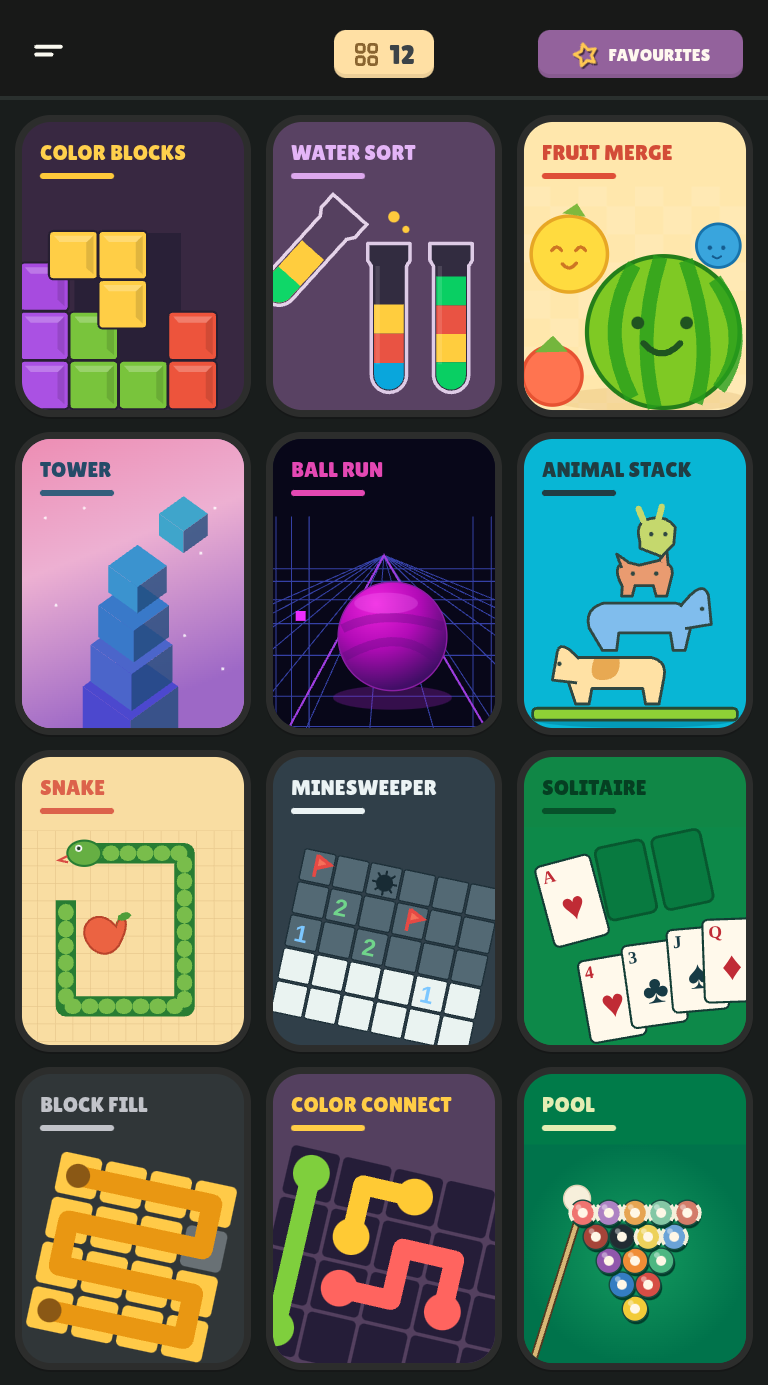
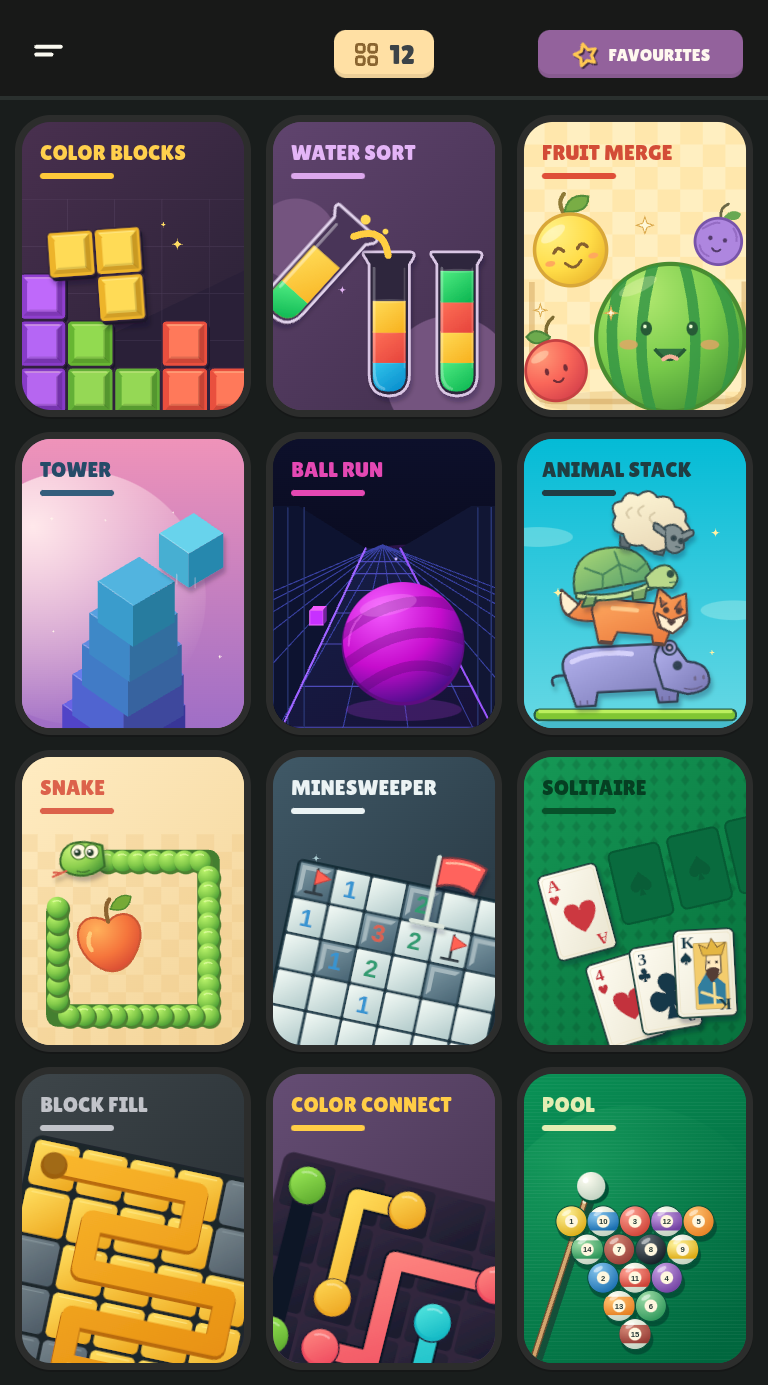
feat: redraw all covers with SVG skill and harden versioned offline caching

diff --git a/src/main.ts b/src/main.ts
@@ -19,7 +19,7 @@ async function route(){const token=++generation;leave();const id=location.hash.m
 try{const loaded=await loadGame(id);if(token!==generation)return;module=loaded;const stage=document.querySelector<HTMLElement>('#game-stage')!;stage.replaceChildren();const best=store.highScore(id);const mounted=await loaded.mount(stage,{id,settings:preferences,highScore:best,setScore(score){if(token!==generation)return;document.querySelector('#game-score')!.innerHTML=`Score <strong>${Math.floor(score)}</strong>`;const next=store.recordScore(id,score);document.querySelector('#game-best')!.innerHTML=`Best <strong>${Math.floor(next)}</strong>`;},setLevel(level){if(token===generation)document.querySelector('#game-level')!.textContent=String(level);},setStatus(text){if(token===generation)document.querySelector('#game-status')!.textContent=text;},announce,save(data){store.saveGame(id,data);storageStatus();},sound(kind){playSound(preferences.sound,kind);}});if(token!==generation){mounted.dispose();return;}instance=mounted;const saved=store.savedGame(id);if(saved!==undefined){try{instance.restore(saved);}catch{announce('The previous save was not compatible. Starting a fresh game.');}}document.querySelector('#pause-game')!.addEventListener('click',()=>setPaused(!paused));document.querySelector('#resume-game')!.addEventListener('click',()=>setPaused(false));document.querySelector('#restart-game')!.addEventListener('click',()=>{instance?.restart();setPaused(false);save();});document.querySelector('#rules-game')!.addEventListener('click',()=>{pausedForDialog=!paused;setPaused(true);document.querySelector('#rules-text')!.textContent=loaded.rules;rulesDialog.showModal();});document.querySelector('#favourite-game')!.addEventListener('click',event=>{const selected=store.toggleFavourite(id);(event.currentTarget as HTMLButtonElement).setAttribute('aria-pressed',String(selected));announce(selected?'Added to favourites':'Removed from favourites');storageStatus();});autosave=window.setInterval(save,5000);if(document.hidden)setPaused(true);stage.focus();}
 catch(error){if(token!==generation)return;document.querySelector('#game-stage')!.innerHTML='<p class="game-error">'+(error instanceof Error?error.message:'Could not load this game.')+'</p><a class="game-button" href="#/">Back to library</a>';}}
 document.querySelector('.hamburger')!.addEventListener('click',()=>{pausedForDialog=!!instance&&!paused;if(instance)setPaused(true);menu.showModal();});menu.addEventListener('close',()=>{if(pausedForDialog)setPaused(false);if(!activeId)library();});rulesDialog.addEventListener('close',()=>{if(pausedForDialog)setPaused(false);});document.querySelector('.rules-done')!.addEventListener('click',()=>rulesDialog.close());
-document.querySelector('.favourites-pill')!.addEventListener('click',event=>{onlyFavourites=!onlyFavourites;(event.currentTarget as HTMLElement).setAttribute('aria-pressed',String(onlyFavourites));if(activeId)location.hash='#/';else library();});document.querySelector<HTMLInputElement>('#search')!.addEventListener('input',event=>{search=(event.target as HTMLInputElement).value;if(!activeId)library();});
+document.querySelector('.favourites-pill')!.addEventListener('click',event=>{onlyFavourites=!onlyFavourites;(event.currentTarget as HTMLElement).setAttribute('aria-pressed',String(onlyFavourites));if(activeId)location.hash='#/';else library();});document.querySelector<HTMLInputElement>('#search')!.addEventListener('input',event=>{search=(event.target as HTMLInputElement).value;if(activeId)location.hash='#/';else library();});
 for(const [selector,key] of [['#sound','sound'],['#motion','reducedMotion'],['#colour','colorBlind']] as const){const input=document.querySelector<HTMLInputElement>(selector)!;input.checked=preferences[key];input.addEventListener('change',()=>{preferences[key]=input.checked;store.write('settings',preferences);document.documentElement.classList.toggle('reduce-motion',preferences.reducedMotion);storageStatus();});}
 document.documentElement.classList.toggle('reduce-motion',preferences.reducedMotion);
 document.querySelector<HTMLButtonElement>('.offline-button')!.addEventListener('click',async event=>{const button=event.currentTarget as HTMLButtonElement,progress=document.querySelector<HTMLProgressElement>('#download-progress')!,status=document.querySelector('#offline-status')!;button.disabled=true;progress.hidden=false;status.textContent='Downloading the arcade…';try{const total=await cacheAll((done,count)=>{progress.max=count;progress.value=done;status.textContent=`Downloaded ${done} of ${count} files`;});button.textContent='Offline pack downloaded';status.textContent=`All ${total} files downloaded on this browser. Device policy or storage eviction can still remove cached files.`;}catch(error){status.textContent=error instanceof Error?error.message:'Download failed. Try again when online.';}finally{button.disabled=false;}});

diff --git a/public/sw.js b/public/sw.js
@@ -1,4 +1,12 @@
-const SHELL='pocket-arcade-shell-v1';
-self.addEventListener('install',event=>{event.waitUntil(caches.open(SHELL).then(cache=>cache.addAll(['./','./index.html','./icon.svg','./manifest.webmanifest'])));self.skipWaiting();});
-self.addEventListener('activate',event=>event.waitUntil((async()=>{let current;try{const response=await fetch(new URL('offline-manifest.json',self.registration.scope));current=(await response.json()).version;}catch{}if(current){for(const key of await caches.keys())if(key.startsWith('pocket-arcade-')&&key!==SHELL&&key!=='pocket-arcade-'+current)await caches.delete(key);}await self.clients.claim();})()));
-self.addEventListener('fetch',event=>{const url=new URL(event.request.url);if(event.request.method!=='GET'||url.origin!==self.location.origin)return;event.respondWith((async()=>{const hit=await caches.match(event.request);if(hit)return hit;try{const response=await fetch(event.request);if(response.ok){const cache=await caches.open(SHELL);await cache.put(event.request,response.clone());}return response;}catch{if(event.request.mode==='navigate'){const fallback=await caches.match(new URL('index.html',self.registration.scope));if(fallback)return fallback;}return new Response('This file has not been downloaded on this device.',{status:503});}})());});
+const VERSION='__ARCADE_VERSION__';
+const PRECACHE=__ARCADE_PRECACHE__;
+const PREFIX='pocket-arcade:'+new URL(self.registration.scope).pathname+':';
+const SHELL=PREFIX+VERSION+':shell';
+const PACK=PREFIX+VERSION+':pack';
+self.addEventListener('install',event=>{event.waitUntil((async()=>{const cache=await caches.open(SHELL);await cache.addAll(PRECACHE.map(path=>new URL(path,self.registration.scope).href));await self.skipWaiting();})());});
+self.addEventListener('activate',event=>event.waitUntil((async()=>{for(const key of await caches.keys())if(key.startsWith(PREFIX)&&key!==SHELL&&key!==PACK)await caches.delete(key);await self.clients.claim();})()));
+self.addEventListener('fetch',event=>{const url=new URL(event.request.url);if(event.request.method!=='GET'||url.origin!==self.location.origin||!url.href.startsWith(self.registration.scope))return;
+ event.respondWith((async()=>{const shell=await caches.open(SHELL),pack=await caches.open(PACK);const hit=await shell.match(event.request)||await pack.match(event.request);
+ if(event.request.mode==='navigate'){try{const response=await fetch(event.request);if(response.ok){await shell.put(event.request,response.clone());return response;}}catch{}return hit||await shell.match(new URL('index.html',self.registration.scope))||new Response('The arcade has not been downloaded on this device.',{status:503});}
+ if(hit)return hit;try{const response=await fetch(event.request);if(response.ok)await shell.put(event.request,response.clone());return response;}catch{return new Response('This file has not been downloaded on this device.',{status:503});}
+ })());});

diff --git a/src/core/offline.ts b/src/core/offline.ts
@@ -1,11 +1,12 @@
 export async function registerOffline():Promise<void> { if('serviceWorker' in navigator && import.meta.env.PROD) {try{await navigator.serviceWorker.register(`${import.meta.env.BASE_URL}sw.js`,{scope:import.meta.env.BASE_URL});}catch{/* Status in menu explains unavailable support. */}} }
 export async function cacheAll(progress:(done:number,total:number)=>void):Promise<number> {
   if(!('serviceWorker' in navigator)||!('caches' in window))throw new Error('Offline storage is unavailable in this browser.');
-  await registerOffline();await navigator.serviceWorker.ready;
+  await registerOffline();
+  await Promise.race([navigator.serviceWorker.ready,new Promise((_,reject)=>setTimeout(()=>reject(new Error('Offline caching is blocked or unavailable on this device.')),12000))]);
   const base=new URL(import.meta.env.BASE_URL,location.href),res=await fetch(new URL('offline-manifest.json',base));
   if(!res.ok)throw new Error('Build the production app to download the offline pack.');
   const manifest=await res.json() as {version:string;files:string[]};
-  const cache=await caches.open('pocket-arcade-'+manifest.version);let done=0;
+  const cache=await caches.open('pocket-arcade:'+base.pathname+':'+manifest.version+':pack');let done=0;
   for(const file of manifest.files){const url=new URL(file,base);const result=await fetch(url,{cache:'reload'});if(!result.ok)throw new Error('Could not download '+file+'. Try again when online.');await cache.put(url,result);progress(++done,manifest.files.length);}
   return done;
 }

diff --git a/playwright.config.ts b/playwright.config.ts
@@ -1,2 +1,2 @@
 import { defineConfig, devices } from '@playwright/test';
-export default defineConfig({testDir:'./tests',testMatch:'**/*.spec.ts',timeout:30000,expect:{timeout:7000},fullyParallel:false,workers:2,reporter:[['list'],['html',{open:'never'}]],use:{baseURL:process.env.ARCADE_URL || 'http://127.0.0.1:4173',trace:'retain-on-failure',screenshot:'only-on-failure'},projects:[{name:'chromium',use:{...devices['Desktop Chrome'],launchOptions:{executablePath:process.env.CHROMIUM_PATH || '/usr/bin/chromium',args:['--no-sandbox','--enable-webgl','--use-gl=angle','--use-angle=swiftshader']}}},{name:'webkit',use:{...devices['Desktop Safari']}}],webServer:process.env.ARCADE_URL ? undefined : {command:'npm run dev -- --port 4173',url:'http://127.0.0.1:4173',reuseExistingServer:true}});
+export default defineConfig({testDir:'./tests',testMatch:'**/*.spec.ts',timeout:30000,expect:{timeout:7000},fullyParallel:false,workers:2,reporter:[['list'],['html',{open:'never'}]],use:{baseURL:process.env.ARCADE_URL || 'http://127.0.0.1:4173',trace:'retain-on-failure',screenshot:'only-on-failure'},projects:[{name:'chromium',use:{...devices['Desktop Chrome'],launchOptions:{executablePath:process.env.CHROMIUM_PATH || (process.env.CI ? undefined : '/usr/bin/chromium'),args:['--no-sandbox','--enable-webgl','--use-gl=angle','--use-angle=swiftshader']}}},{name:'webkit',use:{...devices['Desktop Safari']}}],webServer:process.env.ARCADE_URL ? undefined : {command:'npm run dev -- --port 4173',url:'http://127.0.0.1:4173',reuseExistingServer:true}});

diff --git a/vite.config.ts b/vite.config.ts
@@ -1,2 +1,2 @@
 import { defineConfig } from 'vite';
-export default defineConfig({base:'./',build:{target:'es2022',sourcemap:true,manifest:true},server:{host:'0.0.0.0'},test:{include:['tests/**/*.test.ts'],environment:'node'}} as any);
+export default defineConfig({cacheDir:'.vite-cache',base:'./',build:{target:'es2022',sourcemap:true,manifest:true},server:{host:'0.0.0.0'},test:{include:['tests/**/*.test.ts'],environment:'node'}} as any);

diff --git a/scripts/generate-covers.py b/scripts/generate-covers.py
@@ -1,0 +1,174 @@
+from pathlib import Path
+from math import sin,cos,pi
+ROOT=Path(__file__).resolve().parents[1]
+P=ROOT/'public/game-art'
+INK='#30283b'
+def lin(i,a,b,x1='0%',y1='0%',x2='80%',y2='100%'):
+ return f'<linearGradient id="{i}" x1="{x1}" y1="{y1}" x2="{x2}" y2="{y2}"><stop stop-color="{a}"/><stop offset="1" stop-color="{b}"/></linearGradient>'
+def rad(i,a,b,c=None):
+ return f'<radialGradient id="{i}" cx="32%" cy="22%" r="82%"><stop stop-color="{a}"/>'+ (f'<stop offset=".6" stop-color="{c}"/>' if c else '')+f'<stop offset="1" stop-color="{b}"/></radialGradient>'
+def rect(x,y,w,h,fill,rx=0,stroke=None,sw=0):
+ return f'<rect x="{x}" y="{y}" width="{w}" height="{h}" rx="{rx}" fill="{fill}"'+(f' stroke="{stroke}" stroke-width="{sw}"' if stroke else '')+'/>'
+def circle(x,y,r,fill,stroke=None,sw=0):
+ return f'<circle cx="{x}" cy="{y}" r="{r}" fill="{fill}"'+(f' stroke="{stroke}" stroke-width="{sw}"' if stroke else '')+'/>'
+def path(d,fill='none',stroke=None,sw=0,extra=''):
+ return f'<path d="{d}" fill="{fill}"'+(f' stroke="{stroke}" stroke-width="{sw}" stroke-linecap="round" stroke-linejoin="round"' if stroke else '')+f' {extra}/>'
+def star(x,y,s,c='#fff0b8'):
+ return path(f'M{x} {y-s}q0 {s} {s} {s}q-{s} 0-{s} {s}q0-{s}-{s}-{s}q{s} 0 {s}-{s}Z',c)
+def face(x,y,s=1,ink='#285336',smile=True):
+ return f'<g transform="translate({x} {y}) scale({s})">'+''.join(f'<ellipse cx="{a}" cy="0" rx="5.5" ry="7.5" fill="{ink}"/>'+circle(a-1.5,-3,1.7,'#fff9de') for a in [-19,19])+'<g fill="#f59e76" opacity=".65"><ellipse cx="-30" cy="16" rx="8" ry="4"/><ellipse cx="30" cy="16" rx="8" ry="4"/></g>'+path('M-10 18q10 15 20 0',ink,ink,3)+path('M-5 26q5-3 10 0',stroke='#ffb0a3',sw=3)+'</g>'
+def cover(slug,title,body,defs=''):
+ shadow='<filter id="shadow" x="-30%" y="-30%" width="170%" height="180%"><feDropShadow dx="3" dy="7" stdDeviation="3" flood-color="#0d0c20" flood-opacity=".25"/></filter>'
+ svg=f'<?xml version="1.0" encoding="UTF-8"?>\n<svg xmlns="http://www.w3.org/2000/svg" viewBox="0 0 320 410" role="img" aria-labelledby="title desc"><title id="title">{title}</title><desc id="desc">Original illustrated game cover for Pocket Arcade.</desc><defs>{shadow}{defs}</defs>{body}</svg>\n'
+ (P/slug/'cover.svg').write_text(svg)
+# COLOR BLOCKS: chunky toy blocks with individually lit bevels.
+def block(x,y,c1,c2,n=65):
+ return f'<g transform="translate({x} {y})">'+rect(3,5,n,n,'#1c152b',7)+rect(0,0,n,n,c2,6, '#31213d',2)+path(f'M5 5h{n-10}l-8 9H13Z',c1)+rect(10,12,n-22,n-23,c1,2)+path(f'M5 {n-5}h{n-10}l-8-9H13Z','#000',extra='opacity=".12"')+path(f'M{n-5} 5v{n-10}l-9-8V13Z','#000',extra='opacity=".15"')+path(f'M8 6h{n-17}',stroke='#fff6bc',sw=2,extra='opacity=".35"')+'</g>'
+b=rect(0,0,320,410,'url(#bg)')+path('M0 365 320 210v200H0Z','#2a2038')
+b+='<g opacity=".13" stroke="#b19ac8" stroke-width="1">'+''.join(path(f'M{x} 110v300',stroke='#b19ac8',sw=1)+path(f'M0 {x+110}h320',stroke='#b19ac8',sw=1) for x in range(0,350,67))+'</g>'
+for x,y,c,d in [(0,216,'#bf69fa','#8f3fce'),(0,283,'#b566f5','#873bc7'),(0,350,'#b666f0','#873bc7'),(67,283,'#92da50','#67b632'),(67,350,'#95d855','#63b037'),(134,350,'#95d855','#63b037'),(201,283,'#ff795a','#e94f3e'),(201,350,'#ff795a','#e94f3e'),(268,350,'#ff795a','#e94f3e')]:b+=block(x,y,c,d)
+b+='<g filter="url(#shadow)" transform="translate(42 153) rotate(-4 65 65)">'+block(0,0,'#ffdb56','#edb42a')+block(67,0,'#ffdb56','#edb42a')+block(67,67,'#ffdb56','#edb42a')+'</g>'+star(223,174,9,'#ffdc63')+star(203,146,4,'#ffdc63')
+cover('color-blocks','Chunky jewel blocks snapping into a colourful grid',b,lin('bg','#49304f','#292135'))
+# WATER SORT: translucent glass, believable liquid menisci, active pour.
+d=lin('bg','#60446e','#43304f')+lin('glass','#f5ddff','#b598c5')+lin('shine','#ffffff99','#ffffff00')
+for i,a,z in [('yellow','#ffdc58','#f8b321'),('red','#ff7158','#e7463d'),('blue','#34c8ed','#078bcc'),('green','#51ed83','#0db752')]:d+=lin(i,a,z)
+b=rect(0,0,320,410,'url(#bg)')
+for x,y,r in [(35,167,58),(254,367,91)]:b+=circle(x,y,r,'#74547f')
+def tube(x,y,layers):
+ h=205;out=f'<g transform="translate({x} {y})" filter="url(#shadow)">'
+ out+=path('M-8 0H58Q66 0 63 8L57 18V174Q57 204 28 205Q0 204 0 174V18L-6 8Q-10 4-8 0Z','#2e263c','#d9c6e4',4)
+ out+='<clipPath id="clip'+str(x)+'">'+path('M5 18h47v156q0 25-24 25T5 174Z','#fff')+'</clipPath>'
+ out+='<g clip-path="url(#clip'+str(x)+')">'
+ for j,col in enumerate(layers):
+  yy=199-(j+1)*43;out+=rect(4,yy,50,45,'url(#'+col+')')+f'<ellipse cx="29" cy="{yy}" rx="25" ry="3" fill="#fff" opacity=".16"/>'
+ out+='</g>'+path('M7 23v143q0 25 14 29',stroke='#fff',sw=4,extra='opacity=".26"')+path('M50 23v142',stroke='#fff',sw=2,extra='opacity=".17"')+'</g>';return out
+b+=tube(139,185,['blue','red','yellow'])+tube(235,185,['green','yellow','red','green'])
+b+='<g transform="translate(31 117) rotate(42 29 95)" filter="url(#shadow)">'+path('M-8 0H62Q70 0 66 9L59 18V150Q59 181 29 181T0 150V18L-7 9Q-11 5-8 0Z','#4a3659','#e2d3ec',4)+path('M5 67H54V150q0 25-25 25T5 150Z','url(#yellow)')+path('M5 135h49v15q0 25-25 25T5 150Z','url(#green)')+path('M9 24v119',stroke='#fff',sw=4,extra='opacity=".4"')+'</g>'+path('M117 163q43-16 49 27',stroke='#ffce42',sw=10)+circle(134,139,7,'#ffd954')+circle(162,156,4,'#ffd954')+star(101,239,6,'#e1b2f3')
+cover('water-sort','A bright stream pouring between glass colour tubes',b,d)
+# FRUIT: use independently illustrated specialist fruit, polished further with richer background.
+source=ROOT/'scripts/art-sources/fruit-merge.svg'
+if source.exists():
+ s=source.read_text().replace('<path fill="url(#fm-cloth)" d="M0 96h320v314H0z"/>','<path fill="url(#fm-cloth)" d="M0 0h320v410H0z"/>')
+ (P/'fruit-merge/cover.svg').write_text('<?xml version="1.0" encoding="UTF-8"?>\n'+s)
+# TOWER: proper isometric planes, sky atmosphere, stacked height.
+d=lin('sky','#ef93b9','#9f6ec6',x2='0%',y2='100%')+rad('light','#ffe8eb','#ffe8eb00')
+b=rect(0,0,320,410,'url(#sky)')+circle(83,225,180,'url(#light)')
+for x,y,s in [(45,113,3),(280,151,4),(217,104,2),(47,273,2),(283,309,3),(121,115,2)]:b+=star(x,y,s,'#fff3eb')
+def cuboid(x,y,w,dep,h,top,left,right):
+ return path(f'M{x} {y}l{w*.54}-{dep} {w*.46} {dep} -{w*.54} {dep}Z',top)+path(f'M{x} {y}l{w*.46} {dep}v{h}l-{w*.46}-{dep}Z',left)+path(f'M{x+w*.46} {y+dep}l{w*.54}-{dep}v{h}l-{w*.54} {dep}Z',right)+path(f'M{x+2} {y}l{w*.46-2} {dep-1}',stroke='#ffffff',sw=1.2,extra='opacity=".25"')
+for x,y,w,h,t,l,r in [(60,377,174,59,'#6963e4','#5144c7','#383698'),(74,334,158,58,'#697bea','#5064d0','#3e489d'),(88,291,141,58,'#5e8adf','#417bc6','#37639f'),(98,247,125,58,'#57a0e0','#3e88c7','#326e9f'),(110,202,109,58,'#52b4df','#3a9ccc','#277c9f')]:b+=cuboid(x,y,w,w*.32,h,t,l,r)
+b+='<g filter="url(#shadow)">'+cuboid(197,134,91,29,48,'#67d3ec','#46afd2','#2788ae')+'</g>'+path('M222 192v14m26-9v14',stroke='#f3d6ed',sw=2,extra='opacity=".4"')
+cover('tower','An ascending blue tower under a rose coloured sky',b,d)
+# SNAKE: individual round segments, continuous rounded path, a lively head.
+d=lin('bg','#ffecc2','#f4d59a')+rad('body','#bcf56c','#4b9e36','#83ca4a')+rad('head','#c6f177','#519e39','#8ccf4e')+rad('apple','#ffb15b','#d94b33','#f5753c')
+b=rect(0,0,320,410,'url(#bg)')+'<g opacity=".23">'+''.join(rect(x,y,25,25,'#e9bd75') for y in range(110,435,25) for x in range(0,350,25) if ((x+y)//25)%2==0)+'</g>'
+coords=[]
+for x in range(123,267,22):coords.append((x,148))
+for y in range(170,369,22):coords.append((267,y))
+for x in range(245,50,-22):coords.append((x,368))
+for y in range(346,206,-22):coords.append((53,y))
+b+=path('M123 148h144v220H53V220',stroke='#447f30',sw=32)
+for x,y in coords:b+=circle(x+2,y+3,16,'#4d8031')+circle(x,y,15,'url(#body)')+path(f'M{x-6} {y-8}q6-3 11 0',stroke='#e8ffac',sw=2.2,extra='opacity=".65"')
+b+='<g transform="translate(100 148) rotate(-7)" filter="url(#shadow)">'+path('M19-20q-44-19-58 4-12 24 14 33 21 8 44-7Z','url(#head)','#396e2c',3)+path('M-36 10l-20 6m12-4-10-2',stroke='#db604b',sw=3)+circle(-15,-15,11,'#fff9df','#528731',2)+circle(3,-13,10,'#fff9df','#528731',2)+circle(-17,-14,5,'#233e29')+circle(1,-12,5,'#233e29')+circle(-18,-16,1.5,'#fff')+circle(0,-14,1.5,'#fff')+path('M-21 12q10 5 18 1',stroke='#3c722e',sw=2)+'</g>'
+b+='<g transform="translate(130 264) rotate(-10)">'+path('M0-30C-34-57-61-21-37 17-10 56 21 43 37 10 55-24 27-51 0-30Z','url(#apple)','#cc5834',3)+path('M0-30q-3-22 7-31',stroke='#8c6330',sw=6)+path('M6-47q13-23 32-13-6 24-32 13Z','#76aa36','#4f8a2e',2)+path('M-28-18q-8 13-2 24',stroke='#ffdf8a',sw=6,extra='opacity=".7"')+'</g>'
+cover('snake','A bright green snake curls around a juicy apple',b,d)
+# MINESWEEPER: proper molded field and oversized comic flags.
+d=lin('bg','#405967','#25343e')+lin('cell','#f4fbf6','#b7cece')+lin('closed','#7f9aa5','#4d6978')+rad('mine','#5d6b70','#17252e','#25323c')
+b=rect(0,0,320,410,'url(#bg)')
+b+='<g transform="translate(14 176) rotate(12 145 120)" filter="url(#shadow)">'+rect(-4,-4,318,277,'#142a35',9)
+nums={(0,1):('1','#3994d1'),(0,3):('2','#319b71'),(1,0):('1','#3994d1'),(1,2):('3','#db6251'),(1,3):('2','#319b71'),(2,1):('1','#3994d1'),(2,2):('2','#319b71'),(3,2):('1','#3994d1')}
+for r in range(5):
+ for c in range(6):
+  x,y=c*52,r*52;closed=(r+c)%3==0 and r<3
+  b+=rect(x,y,50,50,'url(#closed)' if closed else 'url(#cell)',3,'#294451',2)
+  if closed:b+=path(f'M{x+4} {y+4}h42l-6 6H{x+10}v28l-6 7Z','#a4b7bd')
+  if (r,c) in nums:
+   v,col=nums[r,c];b+=f'<text x="{x+25}" y="{y+37}" text-anchor="middle" font-family="Arial,sans-serif" font-weight="900" font-size="35" fill="{col}">{v}</text>'
+  if (r,c) in [(0,0),(1,4)]:
+   b+=path(f'M{x+15} {y+41}h24m-12 0V{y+6}',stroke='#303c44',sw=4)+path(f'M{x+26} {y+7}l21 10-21 11Z','#ff6253','#c43d39',1.5)
+b+='</g>'
+b+='<g transform="translate(239 143) rotate(12)" filter="url(#shadow)">'+path('M0 0v96M-21 96h45',stroke='#dce6dc',sw=7)+path('M4 0q35-10 65 3L58 42Q31 28 4 41Z','#ff635d','#7a3840',3)+path('M11 6q27-7 48 0',stroke='#ffb9a0',sw=3)+'</g>'+star(64,144,6,'#aacbd1')
+cover('minesweeper','A tilted minefield with bright red flags',b,d)
+# SUIT PATHS and paper cards for solitaire.
+def suit(kind,x,y,s,col):
+ ds={'heart':'M0 7C-28-15-22-34-7-30Q0-29 0-20Q0-29 7-30C22-34 28-15 0 7Z','spade':'M0-34C-9-20-29-10-20 4Q-11 14-2 3L-7 17H7L2 3Q11 14 20 4C29-10 9-20 0-34Z','diamond':'M0-34 20-8 0 18-20-8Z','club':'M-5-12C-25-32 0-45 9-30Q17-17 5-12C28-21 30 11 9 9L3 4 8 20H-8L-3 4C-20 23-37-10-16-16Z'}
+ return f'<g transform="translate({x} {y}) scale({s})">'+path(ds[kind],col)+'</g>'
+def card(x,y,ang,rank,k,col,w=85,h=124,court=False):
+ b=f'<g transform="translate({x} {y}) rotate({ang})" filter="url(#shadow)">'+rect(0,0,w,h,'url(#paper)',8,'#173e37',2.5)+rect(5,5,w-10,h-10,'none',5,'#e8ddbb',.8)+f'<text x="10" y="26" font-family="Georgia,serif" font-weight="bold" font-size="25" fill="{col}">{rank}</text>'+suit(k,16,43,.35,col)
+ if not court:b+=suit(k,w*.55,h*.68,1.16,col)
+ else:
+  b+=rect(27,19,48,94,'#f3cc6d',2,'#c3a659',1)+path('M31 81 46 57 70 79v27H31Z','#327e9e')+path('M45 37h20v25L53 71 43 57Z','#ffe9bd','#5e5346',1.5)+path('M40 37l-5-16 12 6 6-14 8 13 12-7-6 18Z','#e4b643','#8d6e36',1.5)+path('M44 57q9-6 19 0l-3 12-9 7-8-12Z','#553d35')+circle(48,47,1.5,'#372f2b')+circle(59,47,1.5,'#372f2b')+path('M36 89l28 11M54 77v29',stroke='#f7df92',sw=4)
+ b+=f'<g transform="translate({w} {h}) rotate(180)"><text x="8" y="25" font-family="Georgia,serif" font-weight="bold" font-size="23" fill="{col}">{rank}</text></g></g>';return b
+d=lin('felt','#169956','#08733e')+lin('paper','#fffdf3','#e9e4cf',x2='100%',y2='100%')+'<pattern id="feltPattern" width="22" height="22" patternUnits="userSpaceOnUse"><path d="m11 3 6 8-6 8-6-8Z" stroke="#004d2e" stroke-width="1" opacity=".12"/></pattern>'
+b=rect(0,0,320,410,'url(#felt)')+rect(0,0,320,410,'url(#feltPattern)')
+for x,y in [(121,137),(204,115),(286,93)]:b+='<g transform="rotate(-13 '+str(x)+' '+str(y)+')">'+rect(x,y,73,105,'#096b3e',8,'#065b34',3)+suit('spade',x+36,y+58,.68,'#095d37')+'</g>'
+b+=card(21,172,-15,'A','heart','#cc3941')+card(89,299,-17,'4','heart','#c3323c')+card(151,274,-10,'3','club','#183849')+card(214,248,-3,'K','spade','#173b49',court=True)
+cover('solitaire','Cream playing cards fanned across rich green felt',b,d)
+# BLOCK FILL: tactile path made from raised gold tiles.
+d=lin('bg','#3e464a','#252c31')+lin('gold','#ffdf61','#efac24')+lin('path','#f9b62c','#e89112')+lin('steel','#76848b','#505e69')
+b=rect(0,0,320,410,'url(#bg)')+'<g transform="translate(-11 122) rotate(12 160 150)" filter="url(#shadow)">'+rect(-7,-7,350,350,'#1d252b',18)
+for r in range(5):
+ for c in range(5):
+  x,y=c*69,r*69;active=not ((r,c) in [(0,4),(1,4),(2,0),(3,0),(4,0),(4,1)])
+  b+=rect(x,y,64,64,'url(#gold)' if active else 'url(#steel)',8)+path(f'M{x+9} {y+5}h46',stroke='#fff3a0' if active else '#91a1a6',sw=2,extra='opacity=".55"')
+b+=path('M32 32h207v69H101v69h207v69H101v69h207',stroke='#b96b0b',sw=32)+path('M32 28h207v69H101v69h207v69H101v69h207',stroke='url(#path)',sw=29)+circle(32,32,19,'#9d6011')+circle(32,29,15,'#a16a15')+path('M108 303h192',stroke='#ffdd6c',sw=3,extra='opacity=".5"')+'</g>'
+cover('block-fill','One continuous golden trail fills a tilted puzzle grid',b,d)
+# COLOR CONNECT: raised board, uninterrupted coloured tubular paths.
+d=lin('bg','#654d74','#45334f')+lin('board','#31273e','#1b1c2e')
+colors=[('#a1ef5a','#60ad30'),('#ffda57','#eea824'),('#ff8b82','#f04e61'),('#58e9e0','#13b9c5')]
+for j,(a,z) in enumerate(colors):d+=lin('flow'+str(j),a,z)
+b=rect(0,0,320,410,'url(#bg)')+'<g transform="translate(-12 152) rotate(14 160 140)" filter="url(#shadow)">'+rect(-8,-8,362,362,'#30263c',16)
+for r in range(5):
+ for c in range(5):b+=rect(c*73,r*73,68,68,'url(#board)',7)
+for j,points in enumerate(['M34 34v219','M107 180V34h73','M107 253h73V107h146','M253 180v146H34']):
+ b+=path(points,stroke='#0f1526',sw=32)+path(points,stroke='url(#flow'+str(j)+')',sw=25)
+ ends=[((34,34),(34,253)),((107,180),(180,34)),((107,253),(326,107)),((253,180),(34,326))][j]
+ for x,y in ends:b+=circle(x,y,27,colors[j][1],'#211a32',2)+circle(x,y-3,24,'url(#flow'+str(j)+')')+path(f'M{x-11} {y-17}q11-5 20 0',stroke='#fff',sw=3,extra='opacity=".35"')
+b+='</g>'
+cover('color-connect','Colourful rounded paths link matching pegs on a purple board',b,d)
+# BALL RUN: deep neon corridor, luminous glassy sphere and track.
+d=lin('bg','#0d102b','#050510',x2='0%',y2='100%')+rad('orb','#f45aff','#520d8e','#c60ccd')+rad('halo','#b62fe64d','#7c1aa900')+lin('track','#152048','#171238')+'<clipPath id="ballclip"><circle cx="187" cy="291" r="86"/></clipPath>'
+b=rect(0,0,320,410,'url(#bg)')+circle(190,300,150,'url(#halo)')+path('M134 155 15 410h299L183 155Z','url(#track)')
+# Corridor walls and perspective lines.
+b+=path('M0 95h39l95 60L15 410H0Z','#0d1330')+path('M284 95h36v315h-6L183 155Z','#111634')
+for x in range(-450,901,92):b+=path(f'M158 150 {x} 410',stroke='#3941a4',sw=1.5)
+for y in [174,191,215,247,291,351,409]:
+ factor=(y-150)/260;lx=134-(119*factor);rx=183+131*factor;b+=path(f'M{lx} {y}H{rx}',stroke='#4d4ab9',sw=1.5)
+for x in [3,24,47,293,312]:b+=path(f'M{x} 97v313',stroke='#293775',sw=2)
+b+=path('M134 155 15 410M183 155l131 255',stroke='#9955fc',sw=3)+path('M134 155 15 410',stroke='#a079ff',sw=1)
+b+=path('M55 243h19v21H55Z','#c731ff','#f26dff',1.5)+path('m55 243 5-6h19l-5 6Z','#f45aff')+path('m74 243 5-6v21l-5 6Z','#73239e')
+b+='<ellipse cx="188" cy="384" rx="82" ry="16" fill="#b337e2" opacity=".23"/><circle cx="187" cy="291" r="87" fill="#5e0c82"/><circle cx="187" cy="288" r="85" fill="url(#orb)"/>'
+b+='<g clip-path="url(#ballclip)" opacity=".3" stroke="#490664" stroke-width="15">'+path('M90 285q92-82 191-41M98 326q94-77 181-39M120 361q69-57 130-32',stroke='#490664',sw=15)+'</g><ellipse cx="166" cy="236" rx="41" ry="14" transform="rotate(-12 166 236)" fill="#ffb1ff" opacity=".26"/>'+path('M128 250q-18 18-18 43',stroke='#ff7dff',sw=3,extra='opacity=".4"')+circle(177,170,2,'#c7b4ff')
+cover('ball-run','A glossy magenta ball races down a deep neon corridor',b,d)
+# POOL: individually numbered lacquered billiard balls, cue and felt.
+d=lin('bg','#0a9256','#00673e')+rad('feltLight','#3ac37650','#00673e00')
+ballcolors=[('#fff5a0','#deac16'),('#88c7ef','#1b70b1'),('#ffa294','#ce4337'),('#c9a1e4','#7242a2'),('#ffc270','#e78125'),('#a1dda8','#2e975a'),('#d48775','#983e37'),('#657078','#151e25')]
+for j,(a,z) in enumerate(ballcolors):d+=rad('ball'+str(j),a,z)
+d+=rad('ivory','#fffef2','#c2d2c1')+lin('cue','#f6d4a0','#b98047')
+b=rect(0,0,320,410,'url(#bg)')+circle(156,255,210,'url(#feltLight)')+'<g opacity=".09" stroke="#fff" stroke-width=".6">'+''.join(path(f'M0 {y}h320',stroke='#fff',sw=.6) for y in range(0,410,5))+'</g>'
+b+=path('M18 420 99 174',stroke='#144f39',sw=12)+path('M11 418 92 171',stroke='#694e30',sw=9)+path('M11 418 92 171',stroke='url(#cue)',sw=5)+path('M88 182l5-14',stroke='#f0e7ca',sw=5)+path('M92 171l2-6',stroke='#66b7b8',sw=4)
+b+='<ellipse cx="101" cy="164" rx="22" ry="20" fill="#005136"/>'+circle(98,159,20,'url(#ivory)')+circle(90,151,4,'#fff',None)
+# Rack base upper row five, point lower. Exact solid/stripe colours and numbers.
+numbers=[[1,10,3,12,5],[14,7,8,9],[2,11,4],[13,6],[15]]
+for r,row in enumerate(numbers):
+ for c,num in enumerate(row):
+  x=160+(c-(len(row)-1)/2)*45;y=209+r*40;idx=(num-1)%8
+  b+=f'<ellipse cx="{x+3}" cy="{y+8}" rx="23" ry="21" fill="#003c2b" opacity=".6"/>'
+  if num>8:
+   b+=circle(x,y,22,'url(#ivory)','#065039',1.5)+f'<clipPath id="p{num}">'+circle(x,y,22,'#fff')+'</clipPath>'+f'<g clip-path="url(#p{num})">'+rect(x-24,y-13,48,26,'url(#ball'+str(idx)+')',8)+'</g>'
+  else:b+=circle(x,y,22,'url(#ball'+str(idx)+')','#065039',1.5)
+  b+=circle(x,y,9,'#fff7df')+f'<text x="{x}" y="{y+4}" font-family="Arial,sans-serif" font-size="11" font-weight="700" text-anchor="middle" fill="#273a37">{num}</text>'+f'<ellipse cx="{x-7}" cy="{y-12}" rx="7" ry="3" transform="rotate(-30 {x-7} {y-12})" fill="#fff" opacity=".5"/>'
+cover('pool','A rack of glossy numbered billiard balls with a wooden cue',b,d)
+# ANIMAL STACK: sculpted original animals with distinct, organic silhouettes.
+d=lin('sky','#04bbd6','#67d8e4',x2='0%',y2='100%')+lin('hippo','#b4b3ef','#7d7cb8')+lin('fox','#ffa960','#e9793d')+lin('turtle','#acd976','#5da36c')+lin('sheep','#fff8d8','#e8d7b6')
+b=rect(0,0,320,410,'url(#sky)')+'<g fill="#c1f4ed" opacity=".35"><ellipse cx="22" cy="139" rx="50" ry="14"/><ellipse cx="300" cy="243" rx="47" ry="14"/></g><ellipse cx="163" cy="405" rx="141" ry="11" fill="#168ea5" opacity=".4"/>'+rect(18,384,285,15,'#80c633',6,'#275d48',3)+rect(23,384,275,5,'#bbef5e',2)
+# Bottom hippo, squat broad curve, four chunky legs, long muzzle.
+b+='<g transform="translate(153 339) rotate(-3)" stroke="#334355" stroke-width="3.5" stroke-linejoin="round" stroke-linecap="round" filter="url(#shadow)">'+path('M-92-8Q-105-47-49-46H35Q74-43 71-6L65 37H39L35 18H-47L-51 37H-78Z','url(#hippo)')+path('M-81-27Q-48-42 4-34',stroke='#d5d1fa',sw=7)+path('M36-22Q40-56 66-43L82-19Q111-16 112 7Q113 25 80 27L46 17Z','url(#hippo)')+circle(58,-40,10,'#aaa8df','#334355',3)+circle(58,-40,4,'#ddbdcf')+circle(68,-14,5,'#293b48')+circle(67,-16,1.5,'#fff')+path('M92 4v3M104 3v3',stroke='#71688d',sw=4)+path('M76 19q14 4 25-2',stroke='#625b83',sw=2)+path('M-91-8q-25-3-18 13',stroke='#334355',sw=4)+path('M-72 34v-5m10 5v-5m106 5v-5m10 5v-5',stroke='#665d8a',sw=2)+'</g>'
+# Fox above, left tail counterbalances right-facing head.
+b+='<g transform="translate(159 265) rotate(5)" stroke="#59443f" stroke-width="3" stroke-linejoin="round" stroke-linecap="round" filter="url(#shadow)">'+path('M-55-2Q-113 7-107-42L-81-23Q-76-48-45-24Z','url(#fox)')+path('M-108-42-81-23-94-7q-14-5-14-35Z','#fff0cf')+path('M-62-17Q-62-40-15-34H33Q56-33 55-11L45 24H29L26 11H-23L-30 29H-48Z','url(#fox)')+path('M25-22 30-57 49-43 69-52 74-15 55 6 34-1Z','url(#fox)')+path('M33-43 36-30 43-36M62-41 55-29 66-29','#b06948')+path('M30-21 51-12 73-23 67-5 55 6 38-1Z','#fff0d1')+circle(43,-26,3,'#3d3936')+circle(61,-26,3,'#3d3936')+path('M47-11h10l-5 5Z','#383531')+path('M-33-22h35',stroke='#ffc98a',sw=6)+path('M-45 26h14M31 22h12',stroke='#65463e',sw=4)+'</g>'
+# Tortoise, rounded shell and funny reaching neck.
+b+='<g transform="translate(135 202) rotate(-8)" stroke="#365747" stroke-width="3" stroke-linejoin="round" stroke-linecap="round" filter="url(#shadow)">'+path('M-62 9q-2-57 52-58 56 0 61 53Z','url(#turtle)')+path('M-60 8Q-5 26 50 6l-1 11q-55 16-110-1Z','#c9e59b')+path('M-43-25-19-12-22 6m3-18 25-12 23 14m-23-14-4-18M6-24 8 6M29-10l16-11',stroke='#49865b',sw=3)+path('M40 0Q62-20 76-11 94 7 76 20L43 15Z','#b9d98b')+circle(76,0,4,'#2a4740')+circle(75,-1,1,'#fff')+path('M81 12h-8',stroke='#51805c',sw=2)+path('M-47 16l-8 13h17l5-11M19 18l-1 12h17l5-15','#7ca767')+'</g>'
+# Woolly sheep top, balancing diagonally.
+b+='<g transform="translate(174 131) rotate(12)" stroke="#3a4c51" stroke-width="3" stroke-linejoin="round" stroke-linecap="round" filter="url(#shadow)">'+path('M-33 13-30 28h13l1-13m34-2 1 15h13l3-20','#626f74')+path('M-45-12q-15-17 4-23 3-19 21-13 13-16 27-3 20-9 27 8 21 0 19 18 20 15 4 28-4 18-22 14-17 16-34 3-23 9-30-10-23 0-16-22Z','url(#sheep)')+path('M26-12q14-12 28 2l5 22q-11 17-25 5Z','#829092')+path('M28-8q-24-15-16 3l17 7M52-8q17-15 16-1l-12 10','#829092')+circle(42,1,3,'#273e44')+circle(53,3,3,'#273e44')+path('M47 12h6',stroke='#364f52',sw=2)+path('M-25-29q-11 9-1 15M-9-35q-12 9-1 15M8-29q-11 9 0 15',stroke='#d8cba9',sw=3)+'</g>'+star(51,218,8,'#fff1a3')+star(274,133,7,'#fff1a3')+star(269,303,4,'#fff1a3')
+cover('animal-stack','Expressive hippo fox tortoise and sheep balance in a playful animal tower',b,d)
+print('Redrew twelve locally bundled SVG covers.')

diff --git a/docs/SKILL_INVENTORY.md b/docs/SKILL_INVENTORY.md
@@ -1,0 +1,22 @@
+# Actual skill inventory and parent usage
+
+Repository registry discovered using `rg --files .agents/skills -g SKILL.md` on 2026-10-19. Installed provenance is pinned in skills.lock.json. No untrusted skill installers were executed.
+
+Parent read and applied:
+
+- `.agents/skills/using-superpowers/SKILL.md` and Codex tool reference — actual tool-aware workflow; user master prompt resolves already-specified design decisions.
+- `.agents/skills/brainstorming/SKILL.md` — complete supplied design requires no speculative questions.
+- `.agents/skills/writing-plans/SKILL.md` — ARCHITECTURE.md, TEST_PLAN.md and task plan.
+- `.agents/skills/game-development/SKILL.md` and `web-games/SKILL.md` — lazy loads, fixed updates, input abstraction and cleanup.
+- `.agents/skills/svg-skill/SKILL.md` — original cover geometry, explicit viewBoxes, local assets.
+- `.agents/skills/animate/SKILL.md`, RECIPES.md and `pick-ui-library/SKILL.md` — 140ms transform-only card press/hover, reduced-motion/fine-pointer gating. Native dialog provides browser focus management without adding a framework.
+- `.agents/skills/using-git-worktrees/SKILL.md` — user-authorized twelve isolated worktrees, ignored directory, frozen baseline.
+- `.agents/skills/dispatching-parallel-agents/SKILL.md` — per-game ownership and actual supported concurrency/model.
+- `.agents/skills/requesting-code-review/SKILL.md` and reviewer template — independent cross-review after implementation.
+- `.agents/skills/verification-before-completion/SKILL.md` — fresh check/test/build evidence before completion claims.
+
+Cloud registry was queried at session start; cloud-runtime and Netlify config/deploy skills were read through skills tools before a later registry update reported no cloud skills. Cloud-runtime guided environment readiness/network-policy inspection. Netlify skills guided static build/publish config and no-secret handling. These loads are actual session tool results, not locally installed skill files.
+
+Specialist solver/card/AI skills are not presumed to exist. Each specialist independently searches and documents its actual loaded skills in its own SKILL_USAGE.md, and uses verified official docs for any missing specialty. Standalone Matter/Three APIs are checked against upstream docs/source separately from Phaser guides.
+
+Official parent references validated through connected web research: Vite static deployment https://vite.dev/guide/static-deploy ; Vite relative base https://vite.dev/guide/build#relative-base ; MDN PWA caching https://developer.mozilla.org/en-US/docs/Web/Progressive_web_apps/Guides/Caching ; Playwright browsers https://playwright.dev/docs/browsers . These are documentation, not skill invocations.
